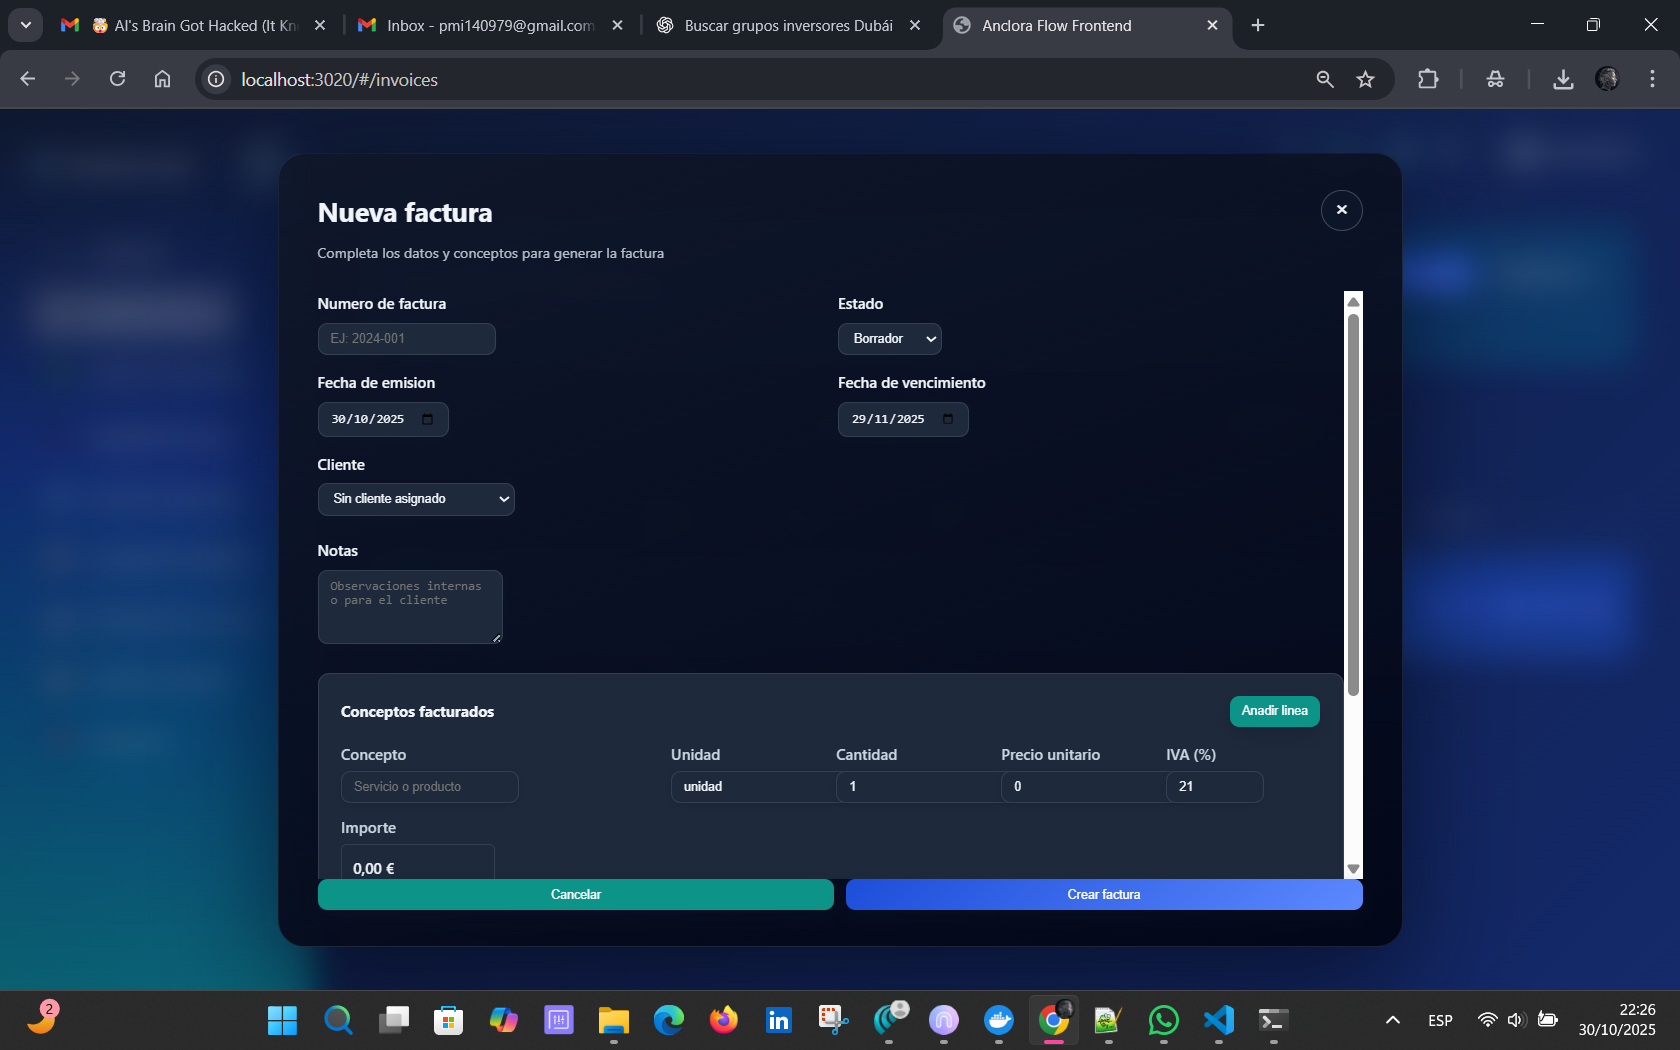
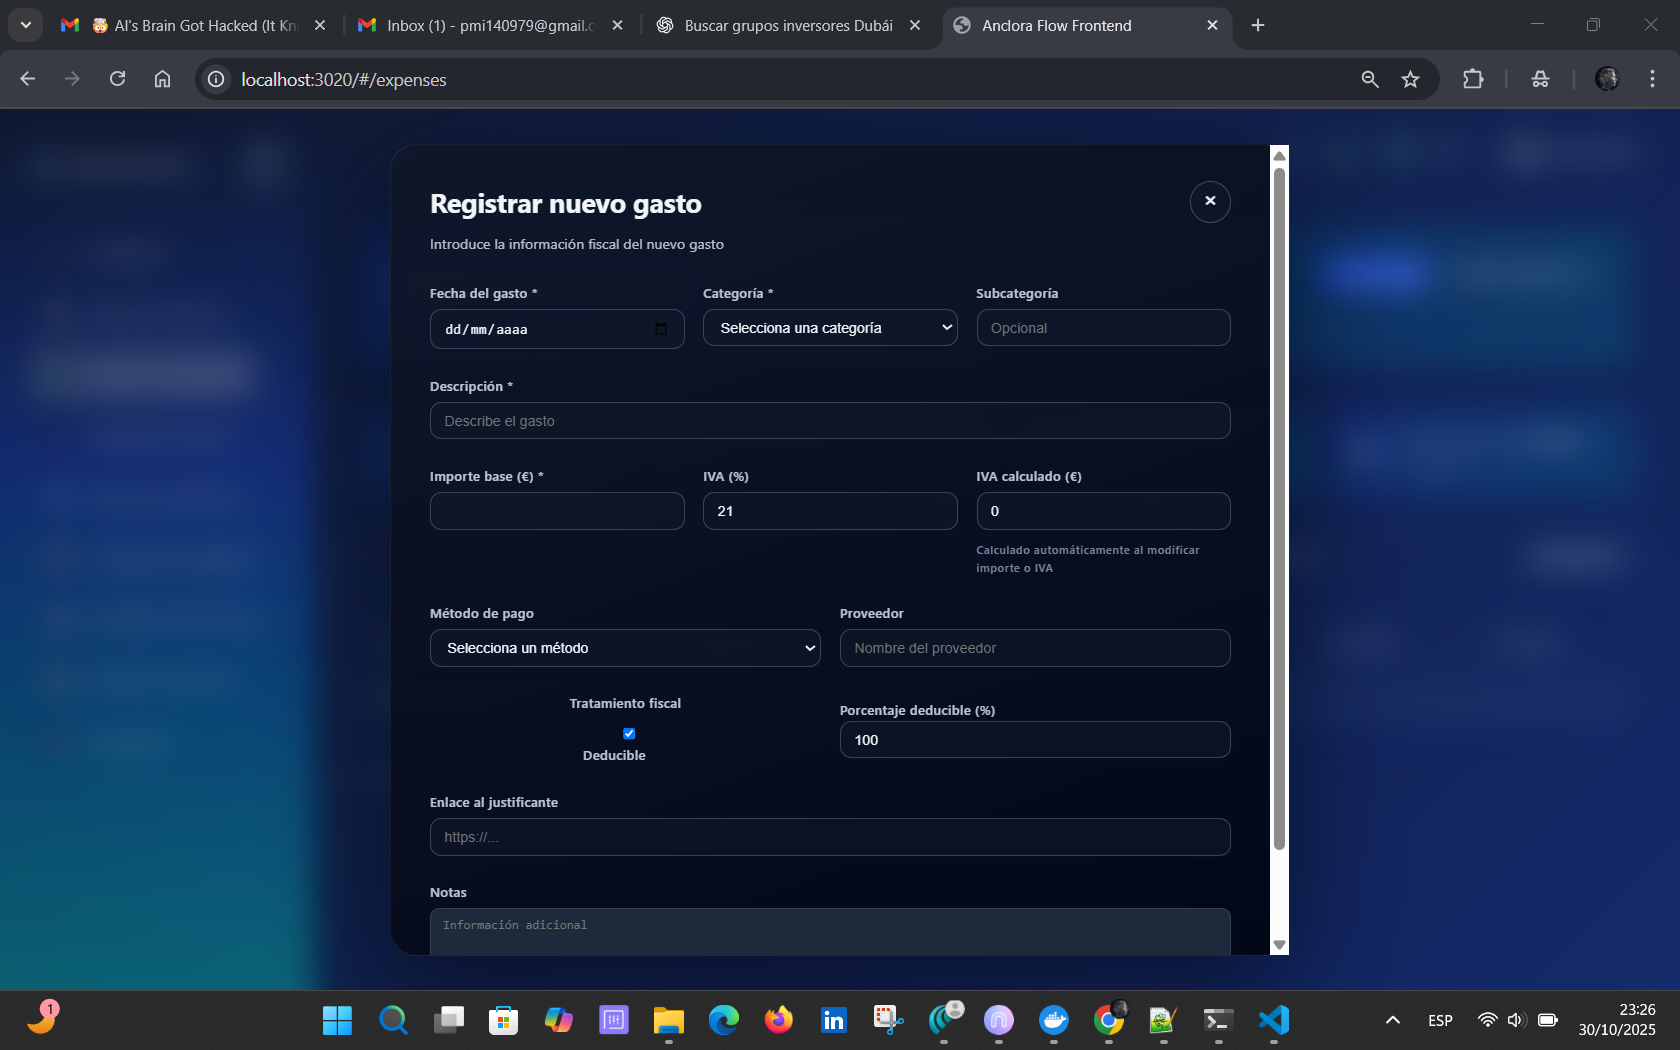
cambios modales gastos

diff --git a/frontend/src/pages/expenses.js b/frontend/src/pages/expenses.js
@@ -538,9 +538,6 @@ function buildExpenseModalHtml(mode, expense) {
                 <span>Subcategoría</span>
                 <input type="text" id="expense-subcategory" name="subcategory" placeholder="Opcional" value="${escapeHtml(expense?.subcategory || '')}" />
               </label>
-            </div>
-
-            <div class="modal-form__grid modal-form__grid--three">
               <label class="form-field modal-form__field--span-3">
                 <span>Descripción *</span>
                 <input type="text" id="expense-description" name="description" placeholder="Describe el gasto" value="${escapeHtml(expense?.description || '')}" required maxlength="200" />
@@ -596,14 +593,11 @@ function buildExpenseModalHtml(mode, expense) {
               </label>
             </div>
 
-            <div class="modal-form__grid modal-form__grid--two">
-              <label class="form-field modal-form__field--span-2">
+            <div class="modal-form__grid modal-form__grid--three">
+              <label class="form-field">
                 <span>Enlace al justificante</span>
                 <input type="url" id="expense-receipt-url" name="receiptUrl" placeholder="https://..." value="${escapeHtml(expense?.receipt_url || expense?.receiptUrl || '')}" />
               </label>
-            </div>
-
-            <div class="modal-form__grid modal-form__grid--two">
               <label class="form-field modal-form__field--span-2">
                 <span>Notas</span>
                 <textarea id="expense-notes" name="notes" rows="3" placeholder="Información adicional">${escapeHtml(expense?.notes || '')}</textarea>

diff --git a/frontend/src/styles/colors.css b/frontend/src/styles/colors.css
@@ -2169,13 +2169,13 @@ table tr[hidden] {
 
 .modal__panel {
   position: relative;
-  width: min(960px, 96vw);
-  max-height: min(92vh, 880px);
+  width: min(1000px, 96vw);
+  max-height: min(96vh, 980px);
   overflow-y: auto;
   border-radius: 28px;
   background: linear-gradient(160deg, rgba(255, 255, 255, 0.98) 0%, rgba(241, 245, 255, 0.96) 100%);
   color: var(--text-primary);
-  padding: 2.4rem 2.6rem;
+  padding: 2.2rem 2.4rem;
   border: 1px solid rgba(51, 102, 255, 0.08);
   box-shadow: 0 40px 120px rgba(51, 102, 255, 0.25);
 }
@@ -2281,12 +2281,12 @@ table tr[hidden] {
 .modal-form__body {
   display: flex;
   flex-direction: column;
-  gap: 1.75rem;
+  gap: 1.5rem;
 }
 
 .modal-form__grid {
   display: grid;
-  gap: 1.25rem;
+  gap: 1rem;
 }
 
 .modal-form__grid--two {

diff --git a/GUIA_MODALES.md b/GUIA_MODALES.md
@@ -233,8 +233,8 @@ Esta guía establece los estándares para crear modales consistentes, amigables 
 
 ### 6.2 Altura del Modal
 
-- **No usar altura fija** (`height: 800px` ❌)
-- Usar `max-height` con viewport units (`max-height: 90vh` ✅)
+- **No usar altura fija** (por ejemplo `height: 800px`).
+- Usar `max-height` con viewport units (por ejemplo `max-height: 90vh`).
 - Permitir que el contenido defina la altura
 - El scroll interno solo aparece si el contenido excede `max-height`
 
@@ -256,31 +256,31 @@ Esta guía establece los estándares para crear modales consistentes, amigables 
 
 ### 7.2 Cuándo Aparece el Scroll
 
-- ✅ Al añadir líneas adicionales de ítems (2+)
-- ✅ En pantallas pequeñas donde no cabe todo el contenido
-- ❌ Al abrir el modal en su estado inicial en pantalla normal
-- ❌ Para ver los botones de acción (siempre visibles)
+- El scroll aparece al añadir líneas adicionales de ítems (segunda en adelante).
+- El scroll aparece en pantallas pequeñas donde el contenido completo no cabe.
+- El scroll no debe aparecer al abrir el modal en escritorio.
+- El scroll no debe ser necesario para alcanzar el footer de acciones.
 
 ## 8. Checklist para Nuevo Modal
 
 Antes de implementar un nuevo modal, verificar:
 
-- [ ] ✅ Título y descripción claros
-- [ ] ✅ Botón de cierre (×) en esquina superior derecha
-- [ ] ✅ Grid layout apropiado para los campos
-- [ ] ✅ Campos organizados lógicamente (agrupados por tipo)
-- [ ] ✅ Labels descriptivos para todos los campos
-- [ ] ✅ Campos requeridos marcados con (\*)
-- [ ] ✅ Sin scroll vertical al abrir (estado inicial)
-- [ ] ✅ Botón "Cancelar" (teal, izquierda)
-- [ ] ✅ Botón de acción principal (azul, derecha)
-- [ ] ✅ Botones en la misma posición que modal de referencia
-- [ ] ✅ Footer fijo (no se mueve con scroll)
-- [ ] ✅ Tamaño apropiado (`max-width` y `max-height`)
-- [ ] ✅ Para facturas/presupuestos: primera línea visible sin scroll
-- [ ] ✅ Para facturas/presupuestos: totales visibles sin scroll
-- [ ] ✅ Sin solapamientos entre elementos
-- [ ] ✅ Espaciado consistente
+- [ ] Título y descripción claros.
+- [ ] Botón de cierre (×) en esquina superior derecha.
+- [ ] Grid layout apropiado para los campos.
+- [ ] Campos organizados lógicamente (agrupados por tipo).
+- [ ] Labels descriptivos para todos los campos.
+- [ ] Campos requeridos marcados con (\*).
+- [ ] Sin scroll vertical al abrir (estado inicial).
+- [ ] Botón "Cancelar" (teal, izquierda).
+- [ ] Botón de acción principal (azul, derecha).
+- [ ] Botones en la misma posición que el modal de referencia.
+- [ ] Footer fijo (no se mueve con scroll).
+- [ ] Tamaño apropiado (`max-width` y `max-height`).
+- [ ] Para facturas/presupuestos: primera línea visible sin scroll.
+- [ ] Para facturas/presupuestos: totales visibles sin scroll.
+- [ ] Sin solapamientos entre elementos.
+- [ ] Espaciado consistente.
 
 ## 9. Ejemplos de Referencia
 
@@ -315,7 +315,7 @@ Antes de implementar un nuevo modal, verificar:
 
 ## 10. Errores Comunes a Evitar
 
-❌ **No hacer:**
+**No hacer:**
 
 - Usar altura fija que cause scroll innecesario
 - Poner botones dentro del área scrollable
@@ -325,7 +325,7 @@ Antes de implementar un nuevo modal, verificar:
 - Usar colores diferentes para botones de acción
 - Cambiar la posición de los botones entre modales
 
-✅ **Hacer:**
+**Hacer:**
 
 - Usar `max-height` con vh units
 - Mantener footer fijo con botones siempre visibles
